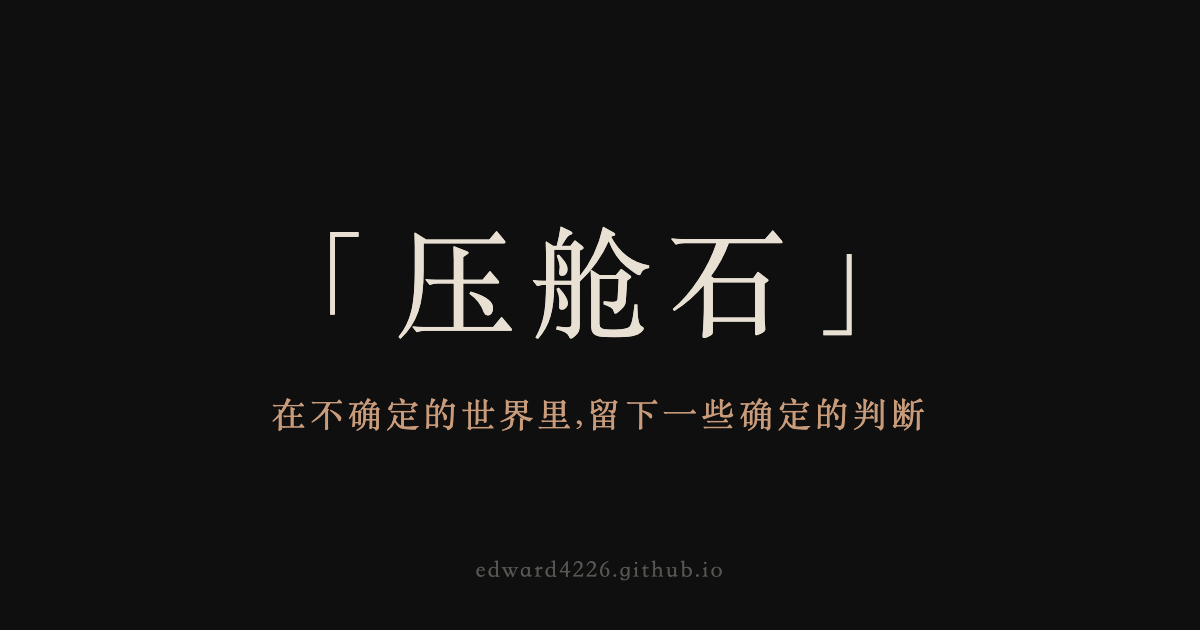
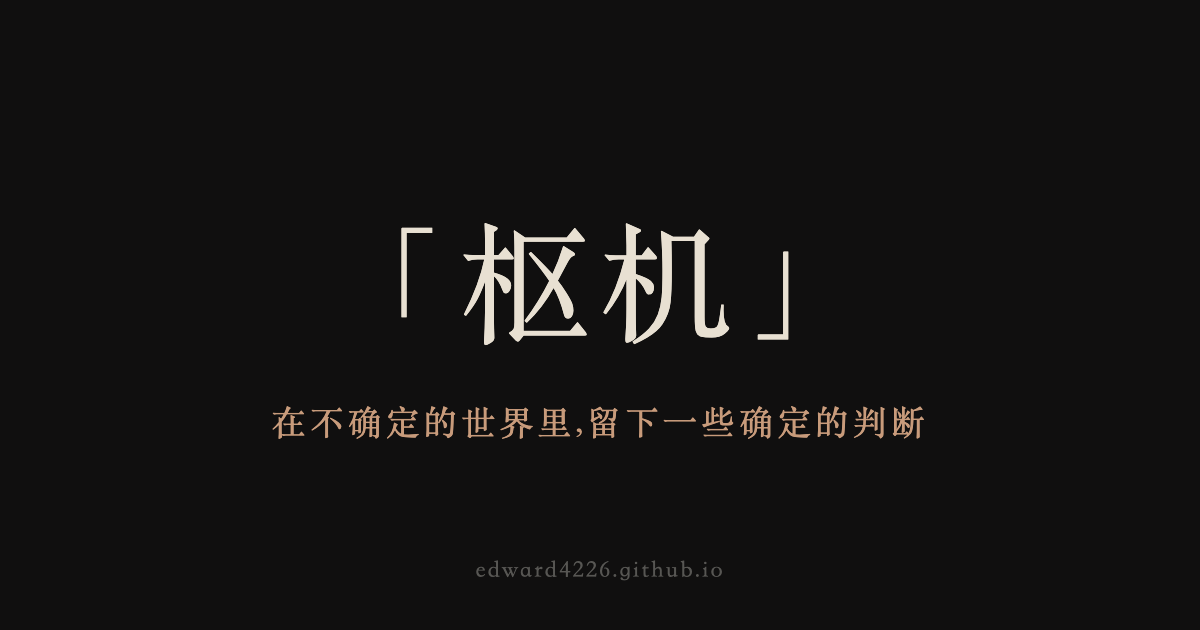
改版「枢机」+ QA修复一轮
- 站名「压舱石」→「枢机」(词典词条/引用格式/OG/favicon/README/manifest)
- RSS 全文输出(content:encoded)
- 文章页加阅读时长
- 删除空 projects 页;Tags/Blog/Authors 页标题中文化;tags 去 noindex
- manifest 品牌与暗色修正;纸样试穿器提示语收敛
- 部署后自动 IndexNow ping + Wayback 存档

Changed region(s): [[0.2775, 0.3619, 0.7092, 0.5429], [0.2158, 0.6333, 0.7708, 0.6937]]

diff --git a/src/pages/rss.xml.ts b/src/pages/rss.xml.ts
@@ -2,6 +2,10 @@ import { SITE } from "@/consts"
 import { getPosts } from "@/lib/content"
 import rss from "@astrojs/rss"
 import type { APIContext } from "astro"
+import MarkdownIt from "markdown-it"
+import sanitizeHtml from "sanitize-html"
+
+const parser = new MarkdownIt({ html: true })
 
 export async function GET(context: APIContext) {
   const posts = await getPosts()
@@ -14,6 +18,9 @@ export async function GET(context: APIContext) {
       description: post.data.description,
       pubDate: post.data.date,
       link: `/blog/${post.id}`,
+      content: sanitizeHtml(parser.render(post.body ?? ""), {
+        allowedTags: [...sanitizeHtml.defaults.allowedTags, "img"],
+      }),
     })),
   })
 }

diff --git a/src/consts.ts b/src/consts.ts
@@ -2,9 +2,8 @@ import type { SvgComponent } from "astro/types"
 import RSS from "@/assets/icons/rss.svg"
 
 export const SITE = {
-  title: "「压舱石」",
-  description:
-    "一个数据驱动的个人博客:寻找那些数据已经转向、共识尚未跟上的边界,把判断写下来,留给时间检验。",
+  title: "「枢机」",
+  description: "在不确定的世界里,留下一些确定的判断。",
   locale: "zh-CN",
   dir: "ltr",
   defaultPageImage: "/static/opengraph-image.png",

diff --git a/README.md b/README.md
@@ -1,4 +1,4 @@
-# 「压舱石」
+# 「枢机」
 
 在不确定的世界里,留下一些确定的判断。
 